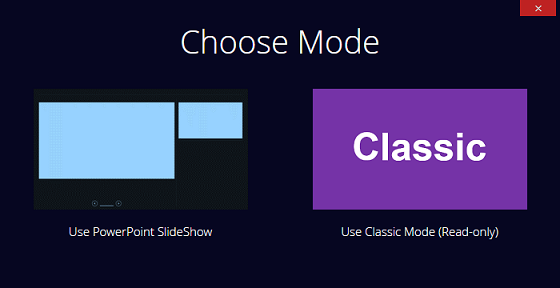
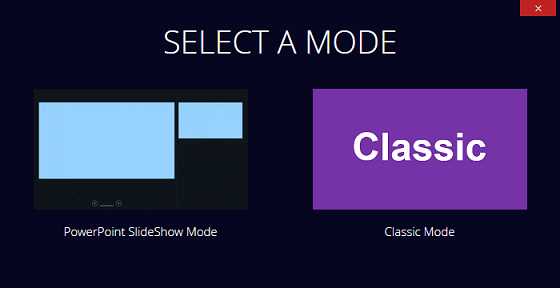
[FIX] README Update

Changed region(s): [[0.2732, 0.0938, 0.6982, 0.1875], [0.6071, 0.7812, 0.9107, 0.8438], [0.0911, 0.7812, 0.3946, 0.8438]]

diff --git a/README.md b/README.md
@@ -3,41 +3,40 @@
 ## INTRODUCTION
 PPT NDI transfers PowerPoint presentations via NDI technology released by NewTek. Can be also used as a character generator because it supports transparency.
 
-The latest version is PPT NDI (20190303) and only supports Windows as of now.
+The latest version is PPT NDI (20190308).
 
 ## HOW TO USE
-1. Download the ppt_ndi_20190303.7z from https://github.com/ykhwong/ppt_ndi/releases and extract it.
-2. Simply run the executable "ppt_ndi_20190303.exe"
-3. Please choose either one of the following modes.
+1. Download the ppt_ndi_20190308.7z from https://github.com/ykhwong/ppt_ndi/releases and extract it.
+2. Simply run the executable "ppt_ndi_20190308.exe"
+3. Please select either one of the following modes.
+
+* PowerPoint SlideShow Mode
+* Classic Mode
 
 ![PPT NDI Mode](https://raw.githubusercontent.com/ykhwong/ppt_ndi/master/resources/ppt_ndi_mode.png)
 
-* Use PowerPoint SlideShow
-* Use Classic Mode (Read-Only)
-
-### Use PowerPoint SlideShow
-When choosing the PowerPoint SlideShow mode, the following message will be displayed: "Please open PowerPoint and run Slide Show"
-Please make sure to disable "Includes background" option to ensure the transparency.
+### PowerPoint SlideShow Mode
+In the PowerPoint SlideShow mode, NDI Preview window is provided. Please make sure to disable "Includes background" option to ensure the transparency.
 
 ![PPT NDI Mode: SlideShow](https://raw.githubusercontent.com/ykhwong/ppt_ndi/master/resources/ppt_ndi_slideshow_integration.png)
 
-By following the instruction, run PowerPoint and open any Powerpoint slide. Hit Alt-F5 to open the slide show.
+Open PowerPoint presentation and begin a slide show with Alt-F5 or Shift-F5.
 ![PPT NDI SlideShow: SlideShow](https://raw.githubusercontent.com/ykhwong/ppt_ndi/master/resources/ppt_ndi_slideshow_integration2.png)
 
-### Use Classic Mode (Read-Only)
-In the Classic Mode, you will get an interface provided by PPT NDI.
+### Classic Mode
+In the Classic Mode, a dedicated graphical user interface is displayed.
 
 ![PPT NDI Screenshot](https://raw.githubusercontent.com/ykhwong/ppt_ndi/master/resources/ppt_ndi_sshot.png)
 
-Click the [LOAD PPT/PPTX] button to open Powerpoint file.
-Please make sure to disable "Includes background" option to ensure the transparency.
+Click the [LOAD PPT/PPTX] button to open a Powerpoint file. Please make sure to disable "Includes background" option to ensure the transparency.
 
 ## INTEGRATION EXAMPLE
-If you are using vMix, for example, you can get slides from PPT NDI software via NDI technology.
+If you are using vMix, for example, PowerPoint slides with a transparent background can be used from the PPT NDI via NDI technology.
 ![PPT NDI vMix Integration](https://raw.githubusercontent.com/ykhwong/ppt_ndi/master/resources/ppt_ndi_vmix_example.png)
 
 ## REQUIREMENT
-Microsoft PowerPoint needs to be installed.
+* Microsoft PowerPoint
+* Microsoft Windows 7 or higher (x86-64 only)
 
 ## SEE ALSO
 * https://www.newtek.com/ndi/
